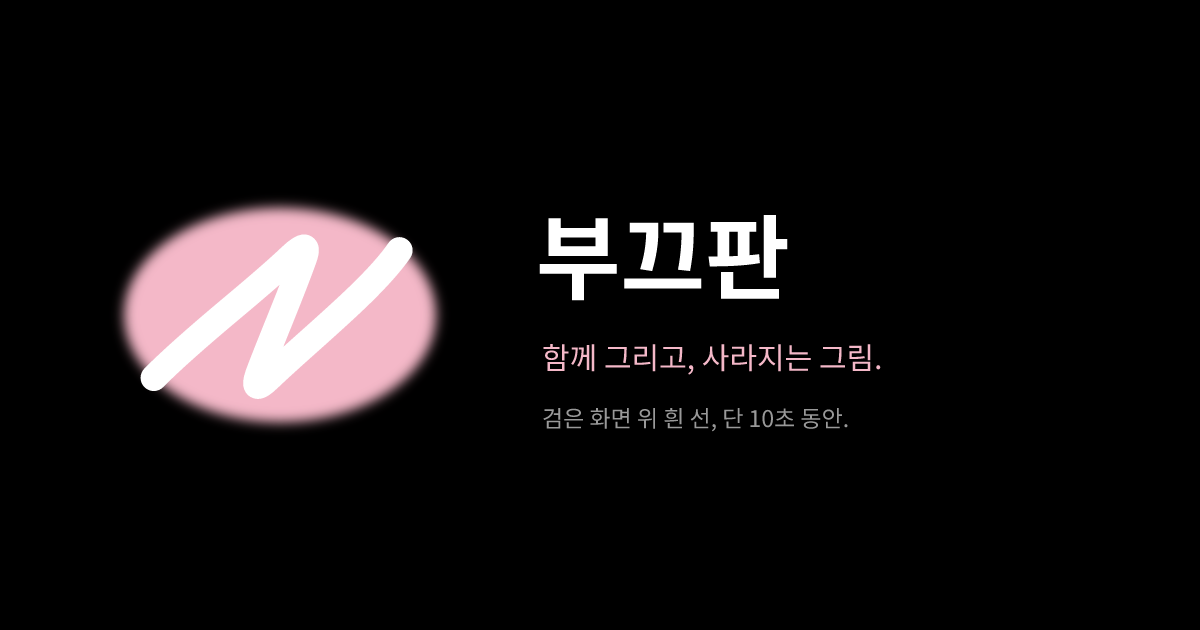
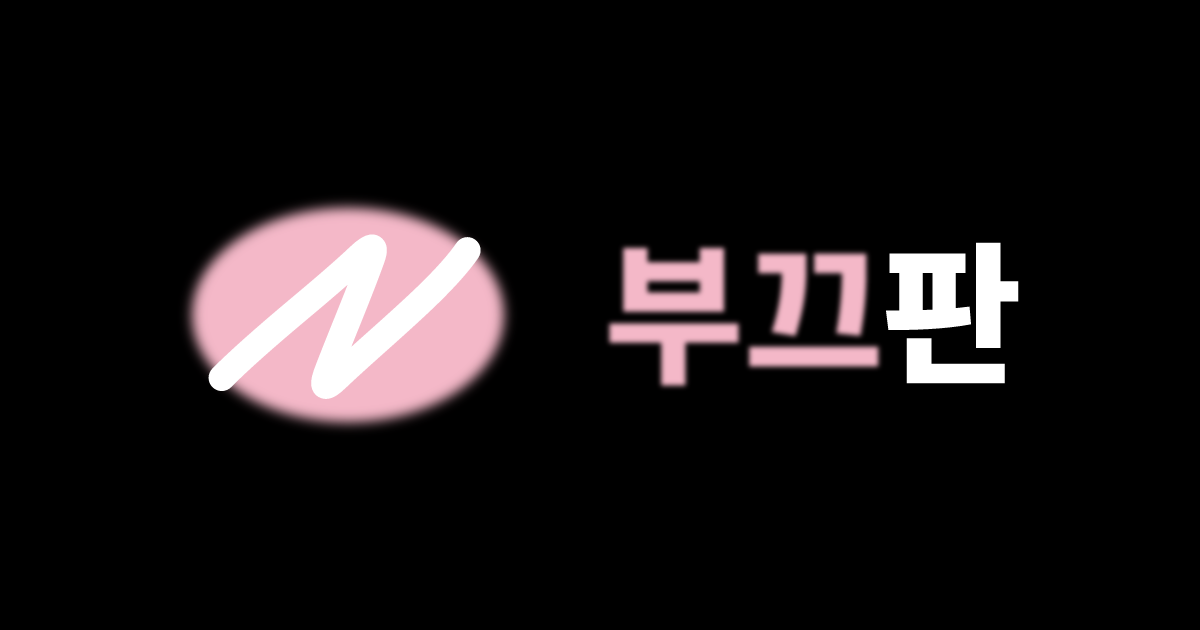
Simplify and center social share card design

Changed region(s): [[0.0925, 0.3016, 0.8633, 0.6937]]

diff --git a/client/index.html b/client/index.html
@@ -19,12 +19,12 @@
     <meta property="og:image:type" content="image/png">
     <meta property="og:image:width" content="1200">
     <meta property="og:image:height" content="630">
-    <meta property="og:image:alt" content="검은 배경 위 분홍 타원과 흰 손그림 아이콘, 부끄판. 함께 그리고, 사라지는 그림.">
+    <meta property="og:image:alt" content="검은 배경 왼쪽에 분홍 타원과 흰 손그림 아이콘, 오른쪽에 굵은 부끄판 글자. 부끄는 흐릿한 베이비 핑크색, 판은 흰색.">
     <meta name="twitter:card" content="summary_large_image">
     <meta name="twitter:title" content="부끄판">
     <meta name="twitter:description" content="검은 화면에 함께 그리는 흰 선. 10초 뒤 사라지는 우리만의 그림판.">
     <meta name="twitter:image" content="https://bukupan.hooreique.com/og-image.png">
-    <meta name="twitter:image:alt" content="검은 배경 위 분홍 타원과 흰 손그림 아이콘, 부끄판. 함께 그리고, 사라지는 그림.">
+    <meta name="twitter:image:alt" content="검은 배경 왼쪽에 분홍 타원과 흰 손그림 아이콘, 오른쪽에 굵은 부끄판 글자. 부끄는 흐릿한 베이비 핑크색, 판은 흰색.">
     <link rel="icon" href="/icon.svg" type="image/svg+xml" sizes="any">
     <link rel="apple-touch-icon" href="/apple-touch-icon.png" sizes="180x180">
     <link rel="manifest" href="/manifest.webmanifest">

diff --git a/scripts/generate-og-image.py b/scripts/generate-og-image.py
@@ -16,13 +16,19 @@ ET.register_namespace("", namespace)
 svg = ET.fromstring('''
 <svg xmlns="http://www.w3.org/2000/svg" width="1200" height="630" viewBox="0 0 1200 630">
   <rect width="1200" height="630" fill="#000"/>
-  <text x="536" y="292" fill="#fff" font-family="Noto Sans CJK KR" font-size="92" font-weight="700">부끄판</text>
-  <text x="542" y="369" fill="#f4b8c8" font-family="Noto Sans CJK KR" font-size="30">함께 그리고, 사라지는 그림.</text>
-  <text x="542" y="427" fill="#999" font-family="Noto Sans CJK KR" font-size="23">검은 화면 위 흰 선, 단 10초 동안.</text>
+  <defs>
+    <filter id="soft-title" x="-10%" y="-20%" width="120%" height="140%">
+      <feGaussianBlur stdDeviation="2.5"/>
+    </filter>
+  </defs>
+  <g font-family="Noto Sans CJK KR" font-size="152" font-weight="900">
+    <text x="604" y="371" fill="#f4b8c8" filter="url(#soft-title)">부끄</text>
+    <text x="882" y="371" fill="#fff">판</text>
+  </g>
 </svg>
 ''')
 icon = ET.parse(client / "icon.svg").getroot()
-icon.set("x", "72")
+icon.set("x", "140")
 icon.set("y", "107")
 icon.set("width", "416")
 icon.set("height", "416")
